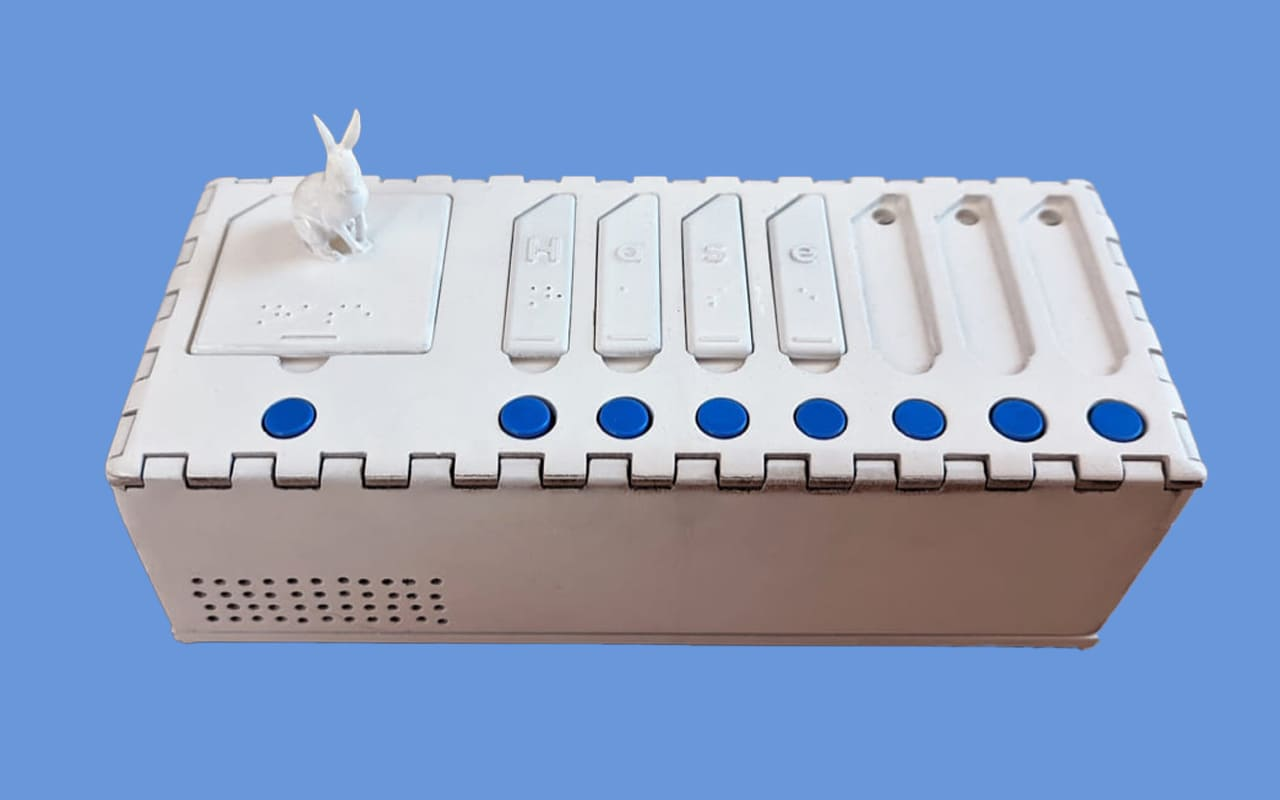
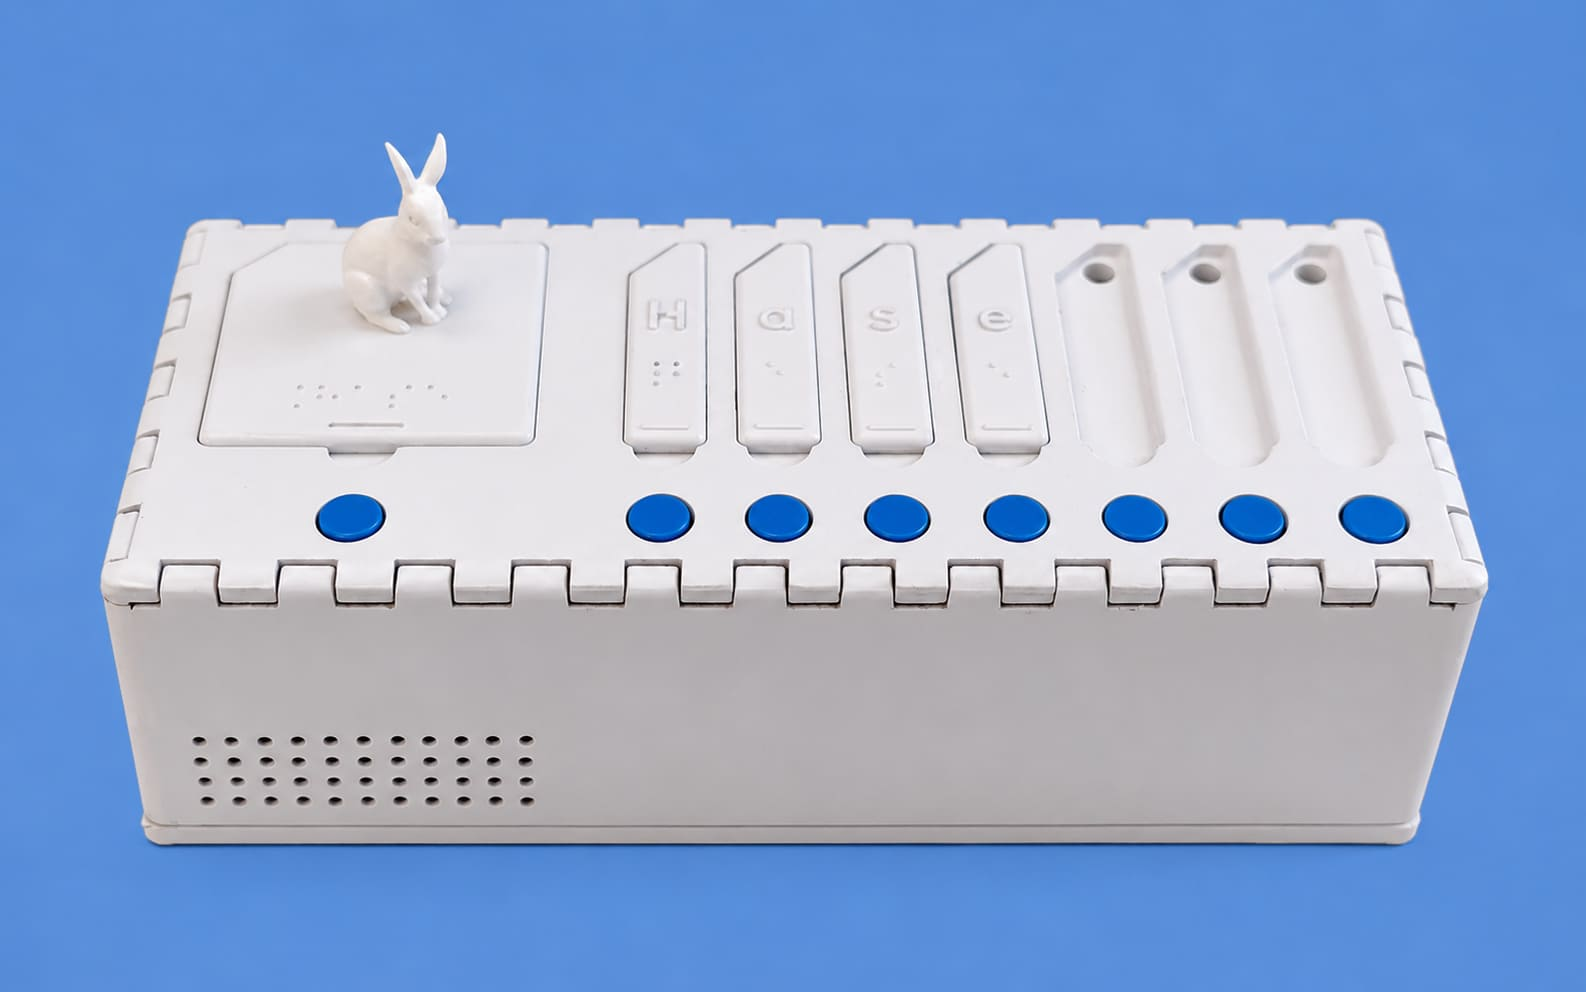
home: replaced braillebuddy preview image

Changed region(s): [[0.0625, 0.2188, 0.9688, 0.875], [0.25, 0.125, 0.2812, 0.2188]]

diff --git a/src/app/pages/home/home.page.ts b/src/app/pages/home/home.page.ts
@@ -51,8 +51,8 @@ export class HomePage {
       previewImage: {
         src: '/images/projects/braillebuddy/braillebuddy-preview.jpg',
         alt: 'Braillebuddy project preview showing the game station and braille letter cards.',
-        width: 1280,
-        height: 800,
+        width: 1586,
+        height: 992,
       },
     },
     {
